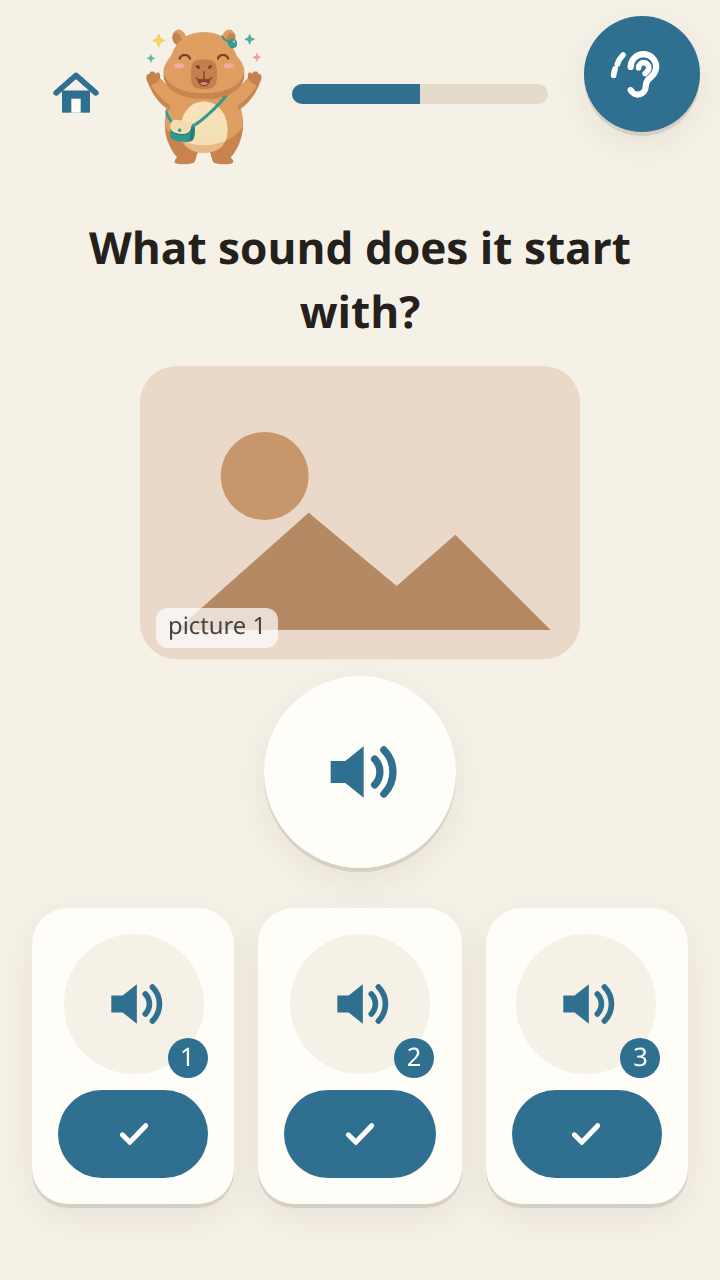
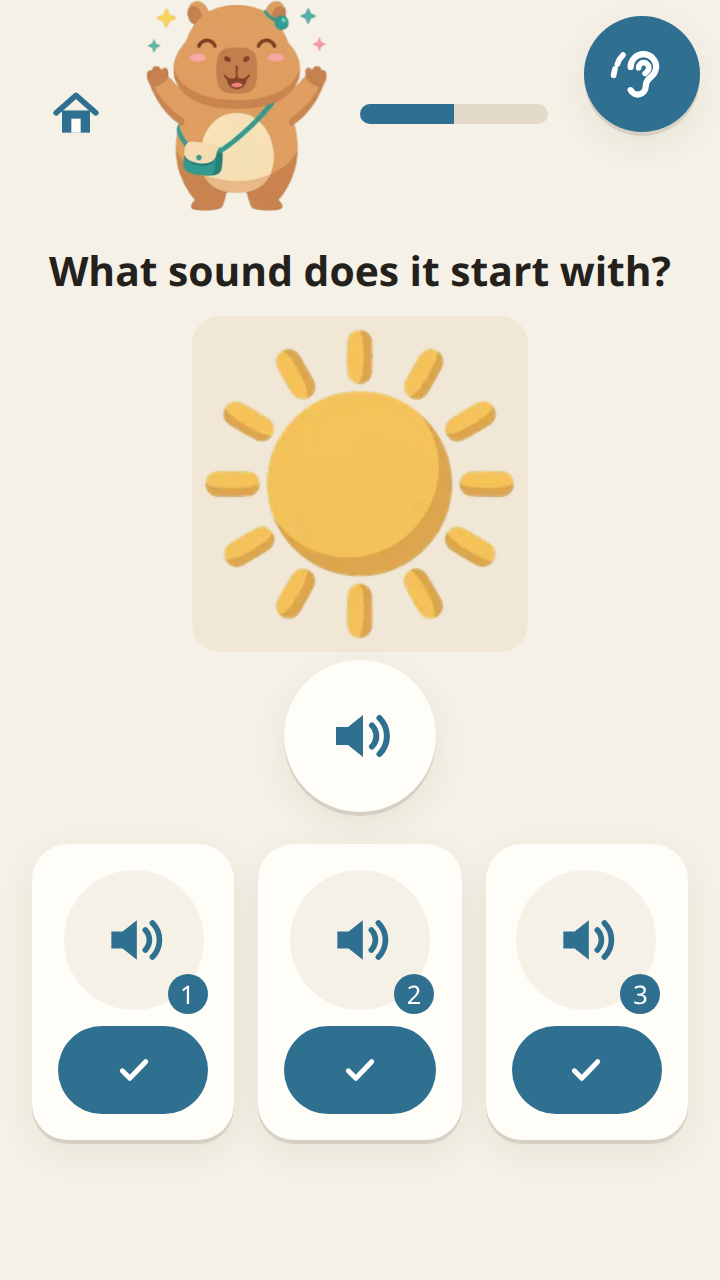
app: Tilo critic round 1 fixes (96px header companion, aaa vs mid, encouraging pose, no focus rings, ear clear of pill)
Header Tilo 62 -> 96px; mid mouth scaled down in CSS so aaa reads open; no ooo in the flap; encouraging reuses the thinking pose; focus rings only on :focus-visible; home header wraps clear of the ear button; shoot_tilo asserts ear/Tilo overlap and HTTP errors. style.css also carries the real-picture, pending-cards and picture-gap rules used by the next commit.

diff --git a/app/src/style.css b/app/src/style.css
@@ -147,7 +147,9 @@ table.mastery tr.unmet td { color: var(--bad); }
 .ear .ear-ic svg { width: 34px; height: 34px; display: block; }
 .ear.playing { animation: pulse .8s ease-in-out infinite; }
 .ear.attn { outline: 5px solid var(--hl); outline-offset: 3px; animation: pulse 1s ease-in-out infinite; }
-header.hdr, .homehdr { padding-right: 70px; }
+header.hdr, .homehdr { padding-right: 70px; }   /* keeps the row clear of the fixed ear button */
+.homehdr { flex-wrap: wrap; row-gap: 2px; } .homehdr .btn { max-width: 100%; }
+.track-A header.hdr { padding-block: 2px; }
 .onboard { padding-top: 12vh; }
 .nudge { outline: 5px solid var(--hl); outline-offset: 3px; animation: pulse 1.1s ease-in-out 5; }
 .opt.nudge, .printed .g.nudge { border-radius: 14px; }
@@ -175,7 +177,9 @@ header.hdr, .homehdr { padding-right: 70px; }
 .tilo-stage { position: relative; width: 100%; aspect-ratio: 225 / 256; transform-origin: 50% 100%; animation: tilo-breathe 3.2s ease-in-out infinite; }
 .tilo-body { position: absolute; inset: 0; width: 100%; height: 100%; opacity: 0; }
 .tilo-body.on { opacity: 1; }
-.tilo-mouth { position: absolute; }
+.tilo-mouth { position: absolute; transform-origin: 50% 8%; }
+/* aaa stays full size (its bottom already touches the muzzle edge); mid is a smaller, shallower mouth, so aaa reads clearly more open */
+.tilo-mouth[data-mouth="mid"] { transform: scale(.85, .66); }
 .tilo.pop .tilo-stage { animation: tilo-breathe 3.2s ease-in-out infinite, tilo-pop .32s ease-out; }
 .tilo[data-pose="celebrating"] .tilo-stage { animation: tilo-breathe 3.2s ease-in-out infinite, tilo-hop .7s ease-in-out 2; }
 @keyframes tilo-breathe { 0%, 100% { transform: scale(1, 1); } 50% { transform: scale(1.012, 1.022); } }
@@ -184,7 +188,7 @@ header.hdr, .homehdr { padding-right: 70px; }
 @media (prefers-reduced-motion: reduce) { .tilo-stage, .tilo.pop .tilo-stage, .tilo[data-pose="celebrating"] .tilo-stage { animation: none; } }
 .hero .tilo-slot { display: grid; place-items: center; }
 .endscreen .tilo-slot { display: grid; place-items: center; margin: 6px 0; } .endscreen .tilo.inline { width: 132px; }
-.hdr-tilo { display: none; } .track-A .hdr-tilo { display: block; flex: none; } .hdr-tilo .tilo.inline { width: 62px; }
+.hdr-tilo { display: none; } .track-A .hdr-tilo { display: block; flex: none; } .hdr-tilo .tilo.inline { width: 96px; }   /* a companion, not a badge; it sits in the header row, so it can never cover an answer */
 
 /* ---- For grown-ups: the gate and the privacy screen ---- */
 .gu-wrap { position: fixed; inset: 0; z-index: 90; background: rgba(36, 33, 29, .45); display: flex; align-items: flex-end; justify-content: center; }
@@ -193,3 +197,17 @@ header.hdr, .homehdr { padding-right: 70px; }
 .gu-msg { min-height: 1.4em; color: var(--bad); margin: 6px 0; }
 .privacy { padding-bottom: 32px; } .privacy .left { text-align: left; } .privacy .url { font-weight: 700; word-break: break-all; user-select: all; }
 .nodewrap { display: inline-block; -webkit-touch-callout: none; } .nodewrap > .node:disabled { pointer-events: none; } .list .nodewrap { display: block; }
+
+/* pictures: real art, fixed size so the card never resizes between screens */
+.picture img { width: 100%; aspect-ratio: 1; height: auto; display: block; border-radius: 14px; background: #f1e7d6; }
+.pics.one { width: min(168px, 100%); max-width: none; } .pics.one .picture { width: 100%; }
+.options.pending { visibility: hidden; }   /* cards stay mounted (same space) while the voice speaks */
+/* focus rings only for keyboard use, never after a tap or on load */
+button:focus:not(:focus-visible), a:focus:not(:focus-visible) { outline: none; }
+.l1-opts .opt .picture { width: 100%; max-width: 120px; }
+@media (max-height: 700px) { .speaker.big { width: 76px; height: 76px; margin: 4px auto; } .speaker.big svg { width: 36px; height: 36px; } h2 { font-size: 1.2rem; margin: .4em 0 .35em; } .l1-opts .opt .picture { max-width: 96px; } }
+.picture { animation: none; }
+.l1-opts .opt { display: flex; flex-direction: column; align-items: center; justify-content: space-between; }   /* a card without a picture (ambiguous word) keeps its button at the bottom, same size as the others */
+.l1-opts .opt .opt-pick { flex: none; }
+.picture-gap { width: 100%; max-width: 120px; aspect-ratio: 1; }   /* an ambiguous word has no picture: an empty box keeps the three cards the same size */
+@media (max-height: 700px) { .picture-gap { max-width: 96px; } }

diff --git a/app/src/tilo.js b/app/src/tilo.js
@@ -11,7 +11,7 @@ const BASE = import.meta.env.BASE_URL;
 const SZ = (window.devicePixelRatio || 1) >= 1.5 ? '2x' : '1x';
 const BODY_W = 225, BODY_H = 256;                       // the 1x art size of every pose (2x files are exactly double)
 const POSES = ['idle', 'listening', 'encouraging', 'celebrating', 'speaking'];
-const FLAP = ['mid', 'aaa', 'mmm', 'ooo', 'mid', 'aaa'];
+const FLAP = ['mid', 'aaa', 'mid', 'mmm', 'aaa', 'mid'];   // no 'ooo': a round 'o' with a raised arm read as shock in the critic round
 const reduced = () => !!window.matchMedia?.('(prefers-reduced-motion: reduce)').matches;
 
 const st = { homeHost: null, track: null, mood: 'idle', emote: null, emoteKey: null, pinned: null, speaking: false, mouth: 'mid', offT: 0, emoteT: 0, flapT: 0, host: null };
@@ -22,7 +22,9 @@ function img(src, cls) { const i = new Image(); i.className = cls; i.alt = ''; i
 function build() {
   el = document.createElement('div'); el.className = 'tilo corner'; el.setAttribute('aria-hidden', 'true'); el.hidden = true;
   stage = document.createElement('div'); stage.className = 'tilo-stage';
-  for (const p of POSES) { const b = img(TILO.poses[p][SZ], 'tilo-body'); b.dataset.pose = p; bodies[p] = b; stage.append(b); }
+  // 'encouraging' (a wrong answer) uses the thinking pose: hand on chin, gentle smile. The raised-hand art read as a wave, same as speaking.
+  const ART = { encouraging: 'thinking' };
+  for (const p of POSES) { const b = img(TILO.poses[ART[p] || p][SZ], 'tilo-body'); b.dataset.pose = p; bodies[p] = b; stage.append(b); }
   for (const [name, m] of Object.entries(TILO.talk.mouths)) {
     const i = img(m.files[SZ], 'tilo-mouth'); i.dataset.mouth = name; i.hidden = true;
     const f = SZ === '2x' ? 2 : 1, [ox, oy] = m.offset[SZ], [sw, sh] = m.size[SZ];   // percent of the stage, from the manifest

diff --git a/tools/shoot_tilo.py b/tools/shoot_tilo.py
@@ -18,13 +18,13 @@ PORT = int(ARG("--port", "5393"))
 OUT = ROOT / ARG("--out", "store/android-test/tilo-in-app"); OUT.mkdir(parents=True, exist_ok=True)
 problems = []
 for f in OUT.glob("*.png"): f.unlink()
-OVERLAP = """() => { const t = document.querySelector('.tilo'); if (!t || t.hidden || t.classList.contains('inline')) return [];
-  const r = t.getBoundingClientRect(); const bad = [];
-  for (const el of document.querySelectorAll('button, a, input, textarea, .opt-pick, [role=button], canvas')) {
-    if (el.closest('.tilo') || el.offsetParent === null) continue;
-    const b = el.getBoundingClientRect(); if (!b.width || !b.height) continue;
-    if (b.left < r.right && b.right > r.left && b.top < r.bottom && b.bottom > r.top) bad.push((el.className || el.tagName) + '');
-  } return bad; }"""
+OVERLAP = """() => { const hit = (a, b) => b.left < a.right && b.right > a.left && b.top < a.bottom && b.bottom > a.top; const bad = [];
+  const live = [...document.querySelectorAll('button, a, input, textarea, .opt-pick, [role=button], canvas')].filter(el => !el.closest('.tilo') && el.offsetParent !== null && el.getBoundingClientRect().width && getComputedStyle(el).visibility !== 'hidden');
+  const t = document.querySelector('.tilo');
+  if (t && !t.hidden) { const r = t.getBoundingClientRect(); for (const el of live) if (hit(r, el.getBoundingClientRect())) bad.push('tilo~' + (el.className || el.tagName)); }
+  const ear = document.getElementById('ear');   // the fixed ear button must never sit on another control or the header pill
+  if (ear && !ear.hidden) { const r = ear.getBoundingClientRect(); for (const el of live) if (el !== ear && hit(r, el.getBoundingClientRect())) bad.push('ear~' + (el.className || el.tagName)); }
+  return bad; }"""
 
 
 def port_open(p):
@@ -63,6 +63,7 @@ def main():
                 ctx = br.new_context(viewport={"width": 360, "height": 640}, device_scale_factor=2)
                 pg = ctx.new_page(); pg.set_default_timeout(8000)
                 pg.on("console", lambda m: errors.append(m.text) if m.type == "error" else None)
+                pg.on("response", lambda r: errors.append(f"HTTP {r.status} {r.url}") if r.status >= 400 else None)
                 pg.on("pageerror", lambda e: errors.append(str(e)))
                 pg.goto(f"http://localhost:{PORT}/{q}"); return pg
             def shot(pg, name):
@@ -85,7 +86,11 @@ def main():
             if n_missing: problems.append(f"missing audio {pg.evaluate('window.__so.missing')}")
             # ---- idle ladder
             pg = newpage("?idlefast"); onboard(pg, "A")
-            if wait_state(pg, lambda s: s["tier"] >= 3 and s["pose"] == "idle", "idle pose on the idle ladder", 60): shot(pg, "A_idle")
+            # at tier 3 the idle ladder shows its own hints on purpose (a yellow nudge ring on a card, a ring on the ear): shoot that as A_idle_hint,
+            # then clear the hints and shoot the calm idle state as A_idle (that one must have no ring at all)
+            if wait_state(pg, lambda s: s["tier"] >= 3 and s["pose"] == "idle", "idle pose on the idle ladder", 60):
+                shot(pg, "A_idle_hint"); pg.evaluate("window.__so.teacher.clearHints()"); time.sleep(0.5); shot(pg, "A_idle")
+                if pg.evaluate("document.querySelector('.nudge, .ear.attn')"): problems.append("a hint ring is still on after clearHints")
             # ---- Home (Tilo in the hero) and the end-of-sitting hero
             pg.evaluate("window.__so.app.home()"); pg.wait_for_selector(".home .tilo-slot .tilo"); time.sleep(0.5)
             pg.screenshot(path=str(OUT / "A_home.png"))
